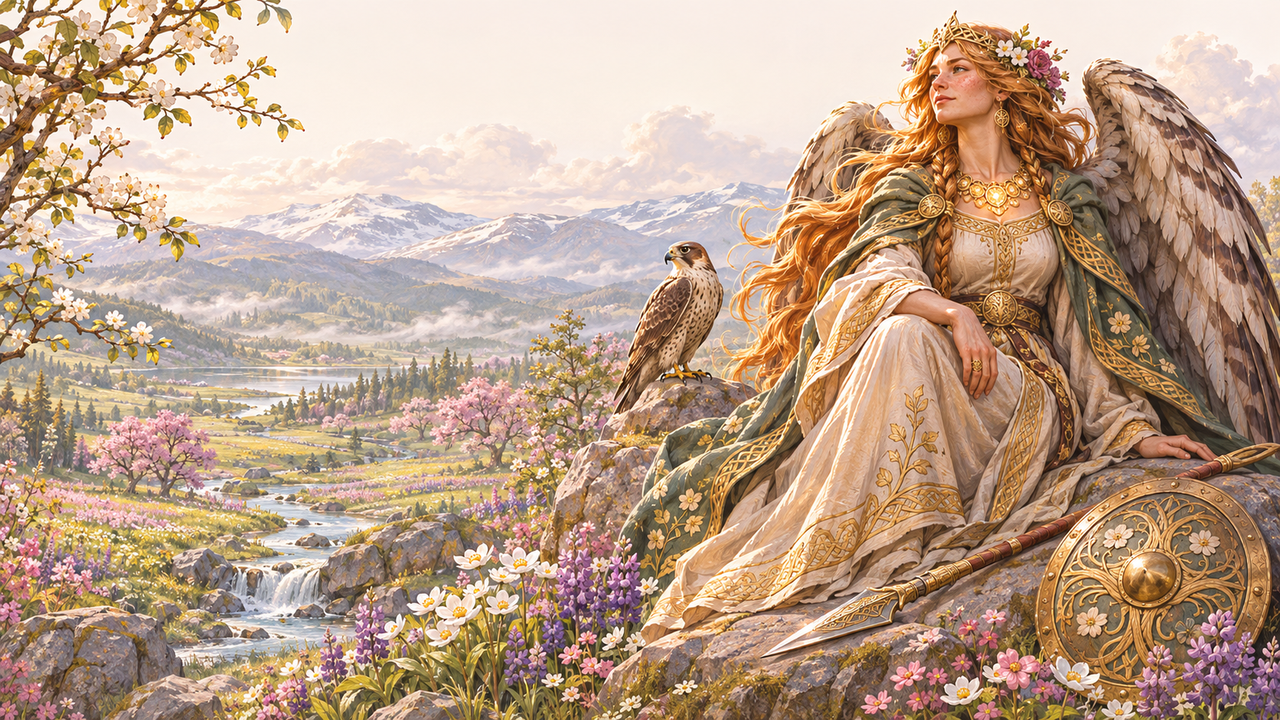
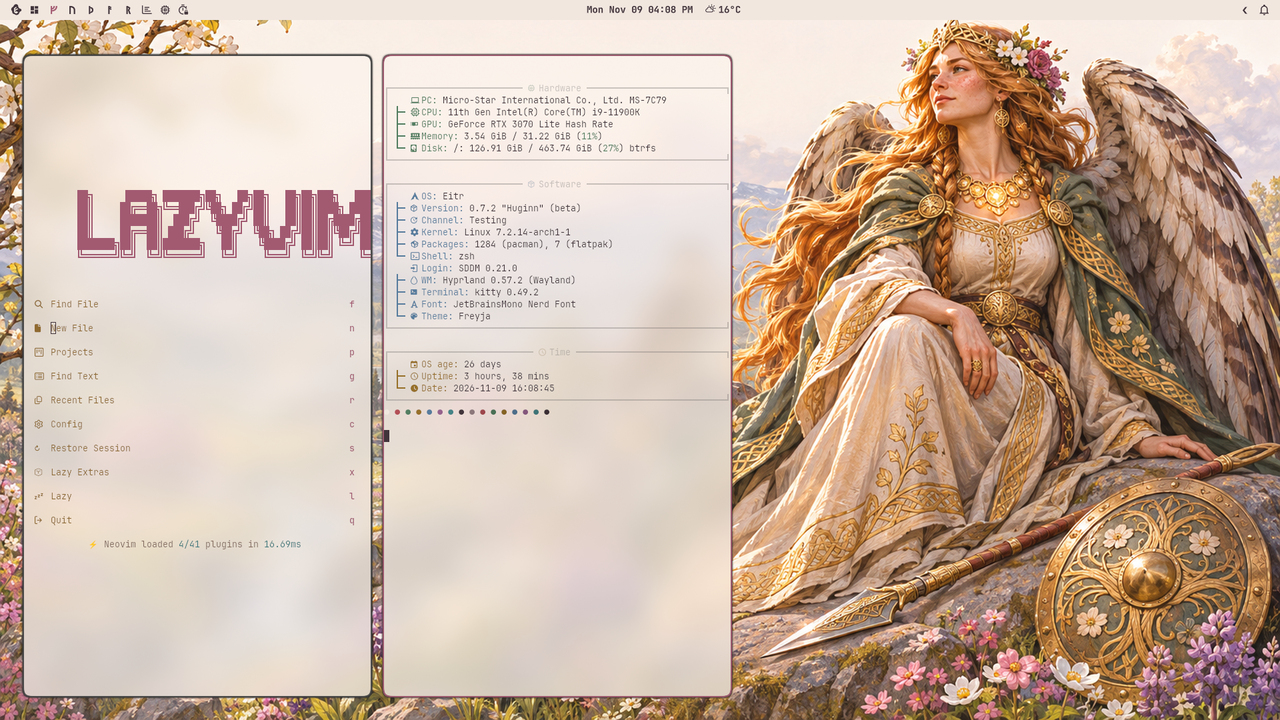
Freyja and Skaði: desktop screenshot previews

diff --git a/freyja/artwork.md b/freyja/artwork.md
@@ -16,8 +16,7 @@ JPEG quality is 92 without chroma subsampling, matching Eitr’s exporter.
 Centred framing (0.5, 0.5) retains the subjects; the panorama crop removes only
 a narrow strip at the top and bottom.
 
-`preview.png` is the 01 wallpaper at 1280×720, a temporary artwork preview;
-the owner will replace it with a desktop screenshot later.
+`preview.png` is a 1280×720 Eitr desktop screenshot over the 01 wallpaper.
 
 - `backgrounds/01-falcon-rest.jpg` and `backgrounds-ultrawide/01-falcon-rest.jpg`: Freyja seated above a flowering valley with her falcon, spear and shield. Sources: `freyja-d.png` and `freyja-d-ultrawide.png`.
 - `backgrounds/02-meadow-cats.jpg` and `backgrounds-ultrawide/02-meadow-cats.jpg`: Freyja with half-open falcon wings and two cats in a spring meadow. Sources: `freyja-c.png` and `freyja-c-ultrawide.png`.

diff --git a/skadi/artwork.md b/skadi/artwork.md
@@ -18,8 +18,7 @@ JPEG quality is 92 without chroma subsampling, matching Eitr’s exporter.
 Centred framing (0.5, 0.5) retains the subjects; the panorama crop removes only
 a narrow strip at the top and bottom.
 
-`preview.png` is the 01 wallpaper at 1280×720, a temporary artwork preview;
-the owner will replace it with a desktop screenshot later.
+`preview.png` is a 1280×720 Eitr desktop screenshot over the 01 wallpaper.
 
 - `backgrounds/01-spirit-wolf.jpg` and `backgrounds-ultrawide/01-spirit-wolf.jpg`: Skaði resting beside a pale-blue spirit wolf above a frozen valley. Sources: `skadi-d.png` and `skadi-d-ultrawide.png`.
 - `backgrounds/02-ridge-hunt.jpg` and `backgrounds-ultrawide/02-ridge-hunt.jpg`: Skaði drawing her bow on a snowy mountain ridge. Sources: `skadi-c.png` and `skadi-c-ultrawide.png`.
